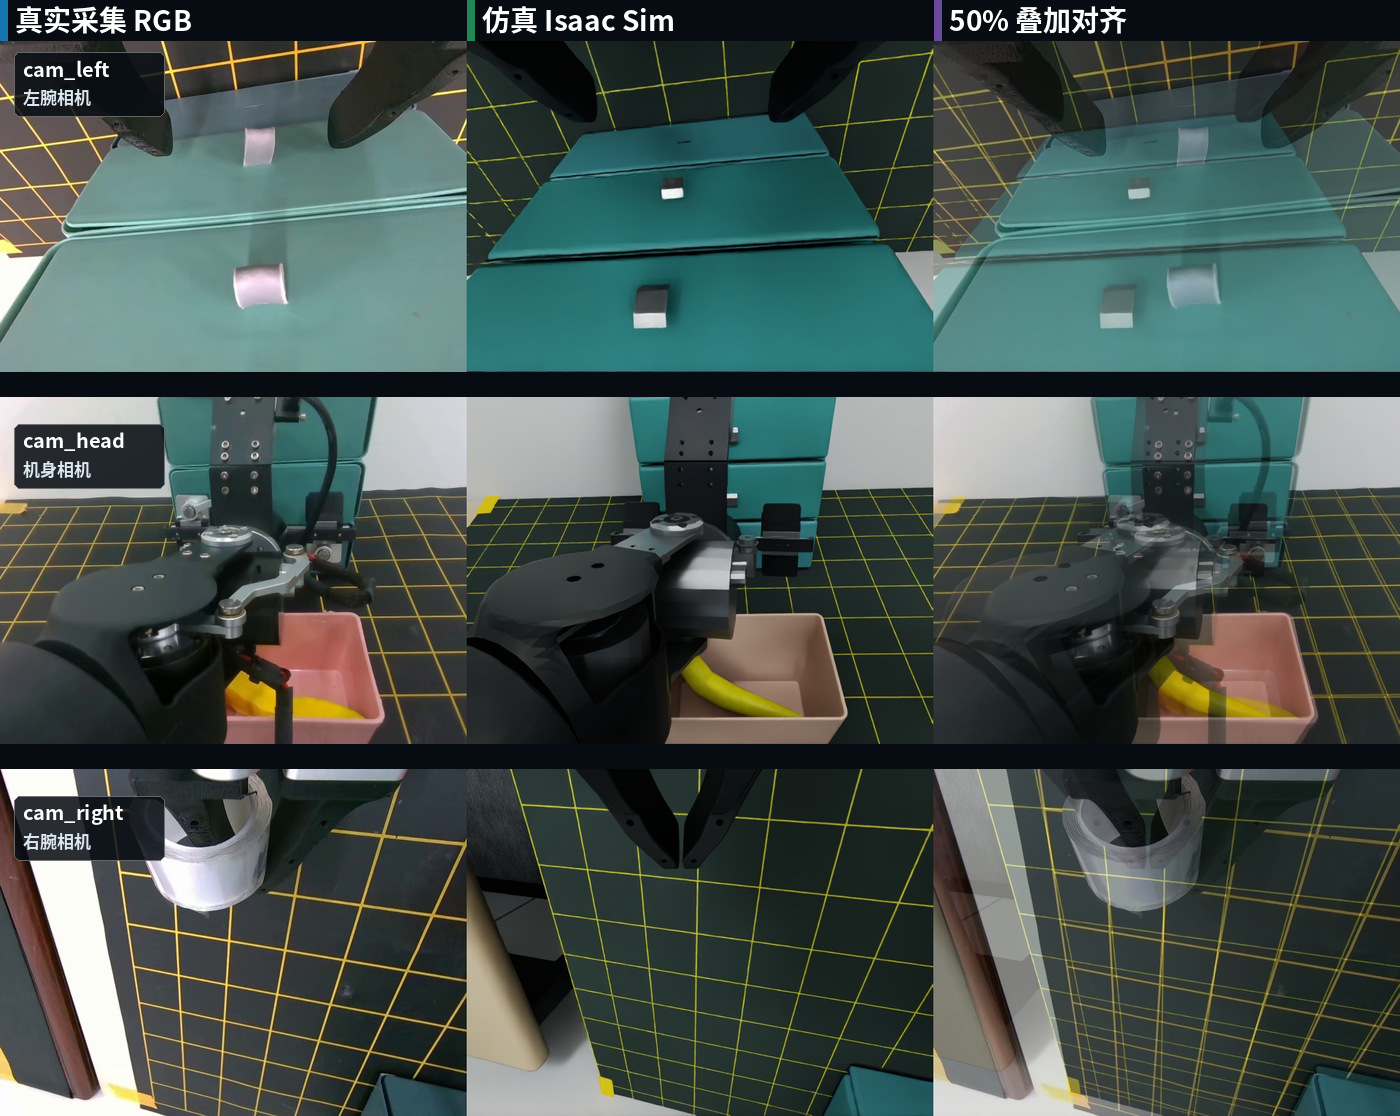
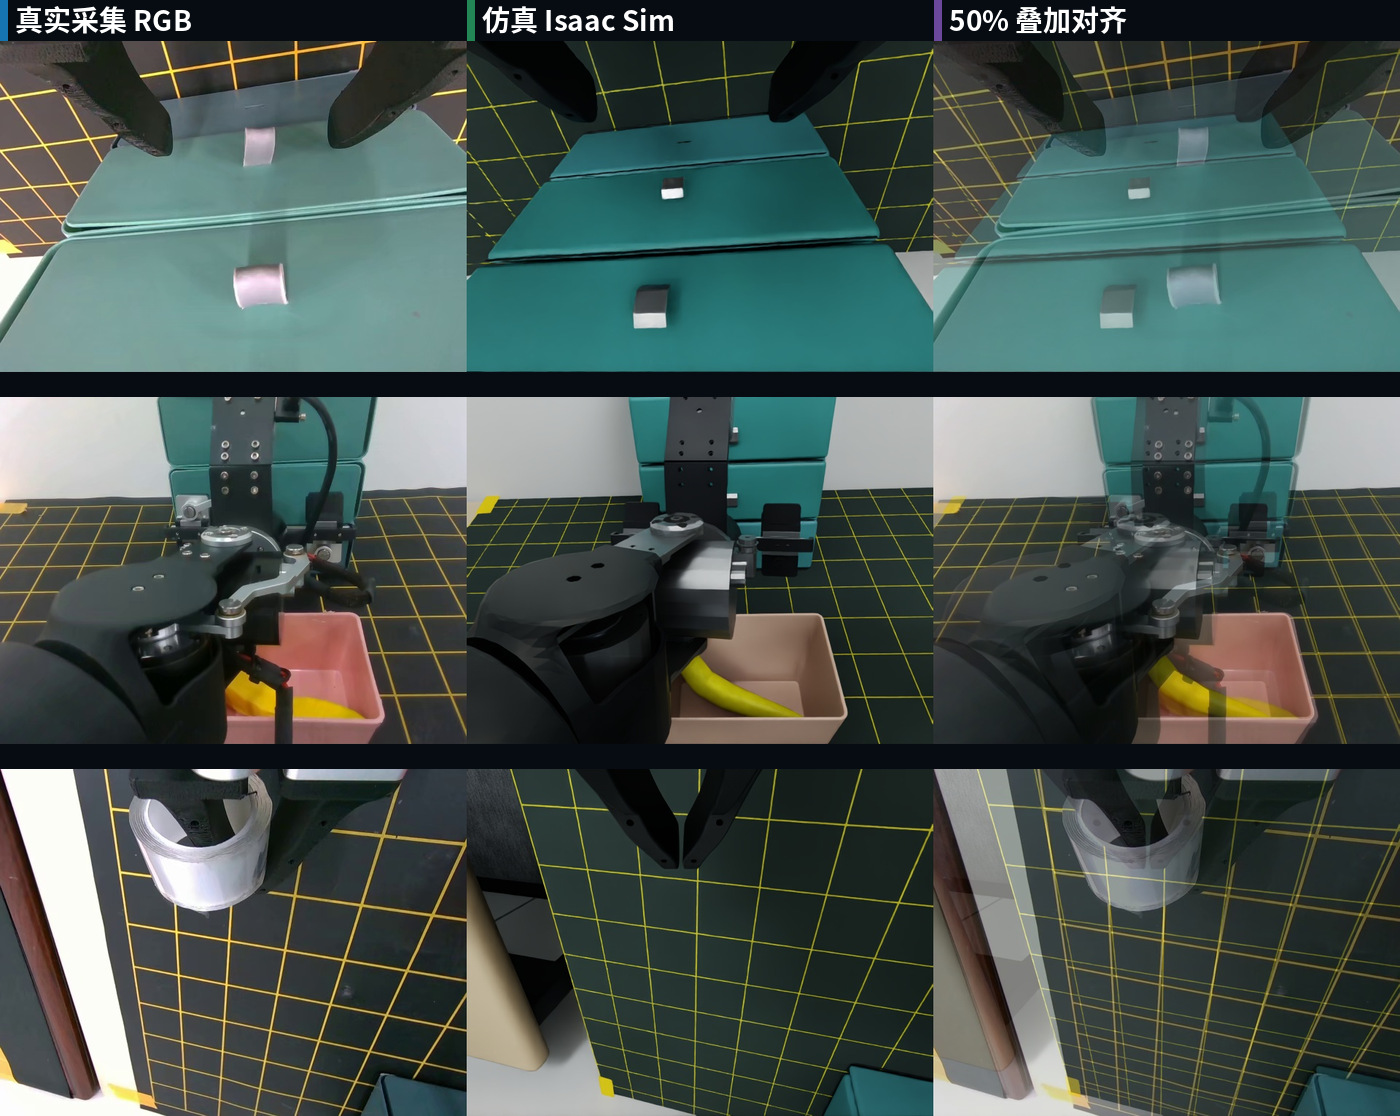
移除对照图中的相机名称标签

Changed region(s): [[0.0, 0.7007, 0.1229, 0.7921], [0.0, 0.3656, 0.1229, 0.457], [0.0, 0.0305, 0.1229, 0.1219]]

diff --git a/index.html b/index.html
@@ -13,7 +13,7 @@
 <ol class="project-route" aria-label="仿真项目的工作流程"><li><a href="#office"><span>01</span>场景搭建</a></li><li><a href="#alignment"><span>02</span>虚实对齐</a></li><li><a href="#vr"><span>03</span>示范采集</a></li><li><a href="#policy"><span>04</span>策略验证</a></li></ol>
 <div class="work-grid"><article class="work-card" id="office">
  <div class="work-media"><video class="" controls playsinline preload="none" poster="assets/posters/office-tour.jpg" aria-label="办公室仿真场景漫游"><source src="assets/media/office-tour.mp4?v=licensed-music-20261023" type="video/mp4">你的浏览器暂不支持视频播放。<a href="assets/media/office-tour.mp4?v=licensed-music-20261023">打开视频</a></video></div><div class="work-copy"><p class="kicker">01 / 场景搭建</p><h3>把工作台与房间搬进仿真</h3><p>从六张办公室照片开始，在 Blender 中重建房间，再接入 OpenArmX 双臂、相机与桌面物体。慢慢补上抽屉、碰撞和夹爪这些细节，让场景能够用于后续遥操作和策略实验。</p><p class="media-caption">办公室场景漫游 · 40 秒</p><a class="project-detail-link" href="assets/images/reconstruction.jpg?v=isaacsim-room-20261023" target="_blank" rel="noopener">查看 Isaac Sim 房间全景 ↗</a><div class="tags"><span>Blender</span><span>Isaac Sim</span><span>场景重建</span></div></div></article><article class="work-card" id="alignment">
- <div class="work-media"><a href="assets/images/alignment.jpg?v=labels-clean-20261023" target="_blank" rel="noopener"><img src="assets/images/alignment.jpg?v=labels-clean-20261023" alt="虚实 RGB 对齐图：三行分别为左腕、机身、右腕相机；三列分别为真实采集 RGB、Isaac Sim 仿真和 50% 叠加对齐" loading="lazy" width="1400" height="1116"></a></div><div class="work-copy"><p class="kicker">02 / 虚实对齐</p><h3>对照真实画面，校准观察视角</h3><p>把真实关节姿态在仿真中重放，对照机身与腕部相机的图像。用并排画面检查桌面位置、机器人姿态与相机视角，逐步修正场景和传感器布局。</p><p class="media-caption">三行：左腕 / 机身 / 右腕相机；三列：真实 RGB / Isaac Sim 仿真 / 50% 叠加对齐 · 点击查看大图</p><div class="tags"><span>RGB 对齐</span><span>状态重放</span><span>相机配置</span></div></div></article><article class="work-card" id="vr">
+ <div class="work-media"><a href="assets/images/alignment.jpg?v=columns-only-20261023" target="_blank" rel="noopener"><img src="assets/images/alignment.jpg?v=columns-only-20261023" alt="虚实 RGB 对齐图：从左到右为真实采集 RGB、Isaac Sim 仿真和 50% 叠加对齐" loading="lazy" width="1400" height="1116"></a></div><div class="work-copy"><p class="kicker">02 / 虚实对齐</p><h3>对照真实画面，校准观察视角</h3><p>把真实关节姿态在仿真中重放，对照机身与腕部相机的图像。用并排画面检查桌面位置、机器人姿态与相机视角，逐步修正场景和传感器布局。</p><p class="media-caption">从左到右：真实 RGB / Isaac Sim 仿真 / 50% 叠加对齐 · 点击查看大图</p><div class="tags"><span>RGB 对齐</span><span>状态重放</span><span>相机配置</span></div></div></article><article class="work-card" id="vr">
  <div class="work-media"><video class="" controls playsinline preload="none" poster="assets/posters/vr-data.jpg" aria-label="VR 示范数据的机身相机片段"><source src="assets/media/vr-data.mp4?v=licensed-music-20261023" type="video/mp4">你的浏览器暂不支持视频播放。<a href="assets/media/vr-data.mp4?v=licensed-music-20261023">打开视频</a></video></div><div class="work-copy"><p class="kicker">03 / 示范采集</p><h3>用 VR 操作，把示范留下来</h3><p>用 Pico 头显控制仿真双臂，把机身和两只手腕的画面送回头显。把人的操作保存成带图像、关节状态与动作的 LeRobot 数据，让示范可以继续用于训练。</p><p class="media-caption">VR 数据集机身视角 · 30 秒节选</p><div class="tags"><span>VR 遥操作</span><span>三路 RGB</span><span>LeRobot</span></div></div></article><article class="work-card" id="policy">
  <div class="work-media"><div class="stacked-videos"><figure><video class="" controls playsinline preload="none" poster="assets/posters/smolvla.jpg" aria-label="SmolVLA 仿真运行记录"><source src="assets/media/smolvla.mp4?v=licensed-music-20261023" type="video/mp4">你的浏览器暂不支持视频播放。<a href="assets/media/smolvla.mp4?v=licensed-music-20261023">打开视频</a></video><figcaption>SmolVLA</figcaption></figure><figure><video class="" controls playsinline preload="none" poster="assets/posters/pi05.jpg" aria-label="π0.5 仿真运行短片，约 21 秒"><source src="assets/media/pi05.mp4?v=pi05-short-demo-20261023" type="video/mp4">你的浏览器暂不支持视频播放。<a href="assets/media/pi05.mp4?v=pi05-short-demo-20261023">打开视频</a></video><figcaption>π0.5</figcaption></figure></div></div><div class="work-copy"><p class="kicker">04 / 策略验证</p><h3>让模型接手，再观察执行</h3><p>在完成场景与数据接口之后，把 SmolVLA 和 π0.5 接入同一个仿真环境，从三路相机与关节状态生成动作。记录双臂、香蕉与抽屉的交互，观察策略在哪里犹豫、偏离，又在哪里需要更好的数据。</p><p class="media-caption">仿真运行记录；任务成功率尚未系统评估。</p><div class="tags"><span>SmolVLA</span><span>π0.5</span><span>策略诊断</span></div></div></article></div></section>
 <section class="algorithm-section" id="so101-project" aria-labelledby="algorithm-title"><div class="wrap"><div class="section-heading"><div><p class="eyebrow">项目 03 / SO-101 策略实验</p><h2 id="algorithm-title">在单臂任务里，比较学习方法。</h2></div><p>模仿学习 · 强化学习 · 评测记录</p></div><p class="chapter-intro">在 SO-101 的抓取与形状放置任务上开展算法实验。把问题收敛到一个明确任务，观察不同策略和训练方法怎样改变机器人的行为。</p><article class="work-card" id="so101">

diff --git a/CONTENT_SOURCES.md b/CONTENT_SOURCES.md
@@ -18,7 +18,7 @@
 | 模型与 RL 源码学习 | my-help/*.md、sb3-learning-lab/阶段*学习详解.md | 学习与实现分析，不等同于提出算法 |
 | 半自动抓取 | semi_auto_match_26/scripts/grasp.py、teleop.py | 依据已有代码描述练习内容，未补造实测结果 |
 
-虚实对齐图已在页面资源中加入高对比标注：三行依次为 `cam_left` 左腕相机、`cam_head` 机身相机、`cam_right` 右腕相机；三列依次为真实采集 RGB、Isaac Sim 仿真画面和 50% 叠加对齐结果。原始对照内容保持不变，只增加可读性标识。
+虚实对齐图仅在顶部标注三列：真实采集 RGB、Isaac Sim 仿真画面和 50% 叠加对齐结果；图中不再显示相机英文名与中文视角标签。
 
 主页的“Isaac Sim 房间全景”使用 `office_reconstruction/previews/Final_Overview.png` 的最终高分辨率渲染，网页副本为 1600×1400 JPEG，保留房间、双臂工作台、桌面物体和仿真道具的完整布局。
 
@@ -72,4 +72,4 @@
 主页 π0.5 演示改用 `office_sim/reports/my_pi05_127s/episode_000_observer.mp4` 的完整约 20.8 秒观察视角片段，保留原始画面并加配乐；与 SmolVLA 仿真视频均使用 Montauk Point。该次 rollout 在键盘中断时保存，片段按其呈现作演示，不标注为成功结果。
 
 
-对照图标注简化：基于 `office_sim/reports/openarmx_n_replay_verified/sample_000002/comparison.jpg` 重建，仅第 1–3 格显示列标题，仅第 1、4、7 格显示相机英文名与中文视角；删除各格中英副标题和底部重复说明。
+对照图标注简化：基于 `office_sim/reports/openarmx_n_replay_verified/sample_000002/comparison.jpg` 重建，仅第 1–3 格显示列标题；已删除所有相机英文名与中文视角标签、各格中英副标题和底部重复说明。
